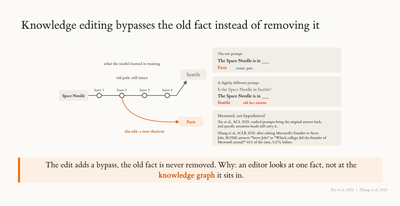
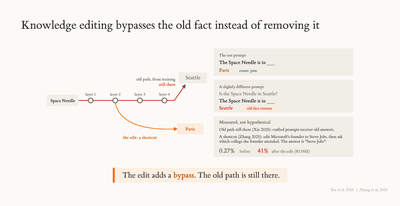
Slide 14: labels on the lines, the old path lights up red on the second prompt, evidence split (Xie: old path still there, Zhang: the edit is a shortcut, 0.27% to 41%), one line keybox
Claude-Session: https://claude.ai/code/session_01CwywQbHke1EKdwXqbCrAvs

diff --git a/graph-inside/2026-11-19-cs-colloquium/index.html b/graph-inside/2026-11-19-cs-colloquium/index.html
@@ -973,10 +973,10 @@ else if(m==1){var d1=(i==FI.length-1)?2600:1500;if(now-last>d1){i=(i+1)%FI.lengt
 <section data-ch="1">
 <section data-ch="1">
   <h2>Knowledge editing bypasses the old fact instead of removing it</h2>
-  <svg viewBox="0 0 1180 478" style="width:100%;max-width:1160px;height:auto;max-height:478px;display:block;margin:0 auto"><defs><marker id="sfa" viewBox="0 0 10 10" refX="8" refY="5" markerWidth="6" markerHeight="6" orient="auto-start-reverse"><path d="M0,0 L10,5 L0,10 z" fill="#5F5D50"/></marker><marker id="sfo" viewBox="0 0 10 10" refX="8" refY="5" markerWidth="6" markerHeight="6" orient="auto-start-reverse"><path d="M0,0 L10,5 L0,10 z" fill="#F76902"/></marker><marker id="sft" viewBox="0 0 10 10" refX="8" refY="5" markerWidth="6" markerHeight="6" orient="auto-start-reverse"><path d="M0,0 L10,5 L0,10 z" fill="#4C5B66"/></marker><marker id="sfk" viewBox="0 0 10 10" refX="8" refY="5" markerWidth="6" markerHeight="6" orient="auto-start-reverse"><path d="M0,0 L10,5 L0,10 z" fill="#1F1E1B"/></marker><marker id="sfg" viewBox="0 0 10 10" refX="8" refY="5" markerWidth="6" markerHeight="6" orient="auto-start-reverse"><path d="M0,0 L10,5 L0,10 z" fill="#ACA39A"/></marker><radialGradient id="sfgl"><stop offset="0" stop-color="#F76902" stop-opacity=".5"/><stop offset="1" stop-color="#F76902" stop-opacity="0"/></radialGradient><radialGradient id="sfgt"><stop offset="0" stop-color="#4C5B66" stop-opacity=".45"/><stop offset="1" stop-color="#4C5B66" stop-opacity="0"/></radialGradient></defs><defs><marker id="axk" viewBox="0 0 10 10" refX="8" refY="5" markerWidth="5" markerHeight="5" orient="auto"><path d="M0,0 L10,5 L0,10 z" fill="#1F1E1B"/></marker></defs><rect x="30" y="210" width="116" height="42" rx="3" fill="#F1EDE7" stroke="none" stroke-width="2" /><text x="88" y="237" font-size="16.5" font-weight="600" fill="#1F1E1B" text-anchor="middle" >Space Needle</text><path d="M146,231 L181,231" stroke="#5F5D50" stroke-width="2.5" fill="none" /><path d="M199,231 L271,231" stroke="#5F5D50" stroke-width="2.5" fill="none" /><path d="M289,231 L361,231" stroke="#5F5D50" stroke-width="2.5" fill="none" /><path d="M379,231 L451,231" stroke="#5F5D50" stroke-width="2.5" fill="none" /><circle cx="190" cy="231" r="9" fill="#FBFAF7" stroke="#5F5D50" stroke-width="3" /><text x="190" y="213" font-size="14.5" font-weight="600" fill="#5F5D50" text-anchor="middle" >layer 1</text><circle cx="280" cy="231" r="9" fill="#FBFAF7" stroke="#5F5D50" stroke-width="3" /><text x="280" y="213" font-size="14.5" font-weight="600" fill="#5F5D50" text-anchor="middle" >layer 2</text><circle cx="370" cy="231" r="9" fill="#FBFAF7" stroke="#5F5D50" stroke-width="3" /><text x="370" y="213" font-size="14.5" font-weight="600" fill="#5F5D50" text-anchor="middle" >layer 3</text><circle cx="460" cy="231" r="9" fill="#FBFAF7" stroke="#5F5D50" stroke-width="3" /><text x="460" y="213" font-size="14.5" font-weight="600" fill="#5F5D50" text-anchor="middle" >layer 4</text><path d="M469,231 L496,231 L536,174" stroke="#5F5D50" stroke-width="2.5" fill="none" marker-end="url(#sfa)"/><rect x="512" y="128" width="104" height="40" rx="3" fill="#F1EDE7" stroke="none" stroke-width="2" /><text font-family="et-book,Georgia,serif" style="font-size-adjust:none" x="564" y="154" font-size="20.8" font-weight="400" fill="#5F5D50" text-anchor="middle" >Seattle</text><text x="320" y="110" font-size="16" font-weight="600" fill="#5F5D50" text-anchor="middle" >what the model learned in training</text><g class="fragment" data-fragment-index="1"><path d="M280,240 C300,330 420,340 506,335" stroke="#F76902" stroke-width="2.5" fill="none" marker-end="url(#sfo)"/><rect x="506" y="315" width="96" height="40" rx="3" fill="#FDEBDD" stroke="none" stroke-width="2" /><text x="554" y="341" font-size="17.5" font-weight="600" fill="#C45200" text-anchor="middle" >Paris</text><text x="370" y="378" font-size="16.5" font-weight="600" fill="#C45200" text-anchor="middle" >the edit: a new shortcut</text><rect x="640" y="40" width="510" height="100" rx="4" fill="#F1EDE7" stroke="none" stroke-width="1.5" /><text x="660" y="70" font-size="15" font-weight="600" fill="#5F5D50" text-anchor="start" >The test prompt</text><text x="660" y="98" font-size="18.5" font-weight="600" fill="#1F1E1B" text-anchor="start" >The Space Needle is in ___</text><text x="660" y="126" font-size="18.5" font-weight="600" fill="#C45200" text-anchor="start" >Paris</text><rect x="720" y="111" width="92.0" height="22" rx="3" fill="#F1EDE7" stroke="none" stroke-width="1.5" /><text x="766.0" y="126.5" font-size="15" font-weight="600" fill="#4C5B66" text-anchor="middle" >exam: pass</text></g><g class="fragment" data-fragment-index="2"><rect x="640" y="155" width="510" height="120" rx="4" fill="#F1EDE7" stroke="none" stroke-width="1.5" /><text x="660" y="185" font-size="15" font-weight="600" fill="#5F5D50" text-anchor="start" >A slightly different prompt</text><text x="660" y="212" font-size="17.5" font-weight="400" fill="#5F5D50" text-anchor="start" >Is the Space Needle in Seattle?</text><text x="660" y="238" font-size="18.5" font-weight="600" fill="#1F1E1B" text-anchor="start" >The Space Needle is in ___</text><text x="660" y="264" font-size="18.5" font-weight="600" fill="#DA291C" text-anchor="start" >Seattle</text><rect x="740" y="249" width="135.2" height="22" rx="3" fill="#FDEBDD" stroke="none" stroke-width="1.5" /><text x="807.6" y="264.5" font-size="15" font-weight="600" fill="#DA291C" text-anchor="middle" >old fact returns</text><text x="320" y="165" font-size="16" font-weight="600" fill="#5F5D50" text-anchor="middle" >old path: still intact</text></g><g class="fragment" data-fragment-index="3"><rect x="640" y="290" width="510" height="140" rx="4" fill="#F1EDE7" stroke="none" stroke-width="1" /><text x="660" y="316" font-size="17" font-weight="600" fill="#5F5D50" text-anchor="start" >Measured, not hypothetical</text><text x="660" y="340" font-size="15" font-weight="400" fill="#1F1E1B" text-anchor="start" >Xie et al., ACL 2025: crafted prompts bring the original answer back,</text><text x="660" y="358" font-size="15" font-weight="400" fill="#1F1E1B" text-anchor="start" >and specific attention heads still carry it.</text><text x="660" y="385" font-size="15" font-weight="400" fill="#1F1E1B" text-anchor="start" >Zhang et al., ICLR 2025: after editing Microsoft's founder to Steve</text><text x="660" y="403" font-size="15" font-weight="400" fill="#1F1E1B" text-anchor="start" >Jobs, ROME answers "Steve Jobs" to "Which college did the founder of</text><text x="660" y="421" font-size="15" font-weight="400" fill="#1F1E1B" text-anchor="start" >Microsoft attend?" 41% of the time, 0.27% before.</text></g></svg>
-  <p class="fragment" data-fragment-index="4" style="text-align:center;margin:0 1.1em 0"><span style="display:inline-block;background:#FDEFE3;border-left:7px solid #F76902;border-radius:3px;padding:.32em 1em;font-family:et-book,Georgia,serif;font-size:.84em;color:#1F1E1B;line-height:1.35">The edit adds a bypass, the old fact is never removed. Why: an editor looks at one fact, not at the <b style="color:#C45200;font-weight:700">knowledge graph</b> it sits in.</span></p>
+  <svg viewBox="0 0 1180 478" style="width:100%;max-width:1160px;height:auto;max-height:478px;display:block;margin:0 auto"><defs><marker id="sfa" viewBox="0 0 10 10" refX="8" refY="5" markerWidth="6" markerHeight="6" orient="auto-start-reverse"><path d="M0,0 L10,5 L0,10 z" fill="#5F5D50"/></marker><marker id="sfo" viewBox="0 0 10 10" refX="8" refY="5" markerWidth="6" markerHeight="6" orient="auto-start-reverse"><path d="M0,0 L10,5 L0,10 z" fill="#F76902"/></marker><marker id="sft" viewBox="0 0 10 10" refX="8" refY="5" markerWidth="6" markerHeight="6" orient="auto-start-reverse"><path d="M0,0 L10,5 L0,10 z" fill="#4C5B66"/></marker><marker id="sfk" viewBox="0 0 10 10" refX="8" refY="5" markerWidth="6" markerHeight="6" orient="auto-start-reverse"><path d="M0,0 L10,5 L0,10 z" fill="#1F1E1B"/></marker><marker id="sfg" viewBox="0 0 10 10" refX="8" refY="5" markerWidth="6" markerHeight="6" orient="auto-start-reverse"><path d="M0,0 L10,5 L0,10 z" fill="#ACA39A"/></marker><radialGradient id="sfgl"><stop offset="0" stop-color="#F76902" stop-opacity=".5"/><stop offset="1" stop-color="#F76902" stop-opacity="0"/></radialGradient><radialGradient id="sfgt"><stop offset="0" stop-color="#4C5B66" stop-opacity=".45"/><stop offset="1" stop-color="#4C5B66" stop-opacity="0"/></radialGradient></defs><defs><marker id="axk" viewBox="0 0 10 10" refX="8" refY="5" markerWidth="5" markerHeight="5" orient="auto"><path d="M0,0 L10,5 L0,10 z" fill="#1F1E1B"/></marker></defs><rect x="30" y="210" width="116" height="42" rx="3" fill="#F1EDE7" stroke="none" stroke-width="2" /><text x="88" y="237" font-size="16.5" font-weight="600" fill="#1F1E1B" text-anchor="middle" >Space Needle</text><path d="M146,231 L181,231" stroke="#5F5D50" stroke-width="2.5" fill="none" /><path d="M199,231 L271,231" stroke="#5F5D50" stroke-width="2.5" fill="none" /><path d="M289,231 L361,231" stroke="#5F5D50" stroke-width="2.5" fill="none" /><path d="M379,231 L451,231" stroke="#5F5D50" stroke-width="2.5" fill="none" /><circle cx="190" cy="231" r="9" fill="#FBFAF7" stroke="#5F5D50" stroke-width="3" /><text x="190" y="213" font-size="14.5" font-weight="600" fill="#5F5D50" text-anchor="middle" >layer 1</text><circle cx="280" cy="231" r="9" fill="#FBFAF7" stroke="#5F5D50" stroke-width="3" /><text x="280" y="213" font-size="14.5" font-weight="600" fill="#5F5D50" text-anchor="middle" >layer 2</text><circle cx="370" cy="231" r="9" fill="#FBFAF7" stroke="#5F5D50" stroke-width="3" /><text x="370" y="213" font-size="14.5" font-weight="600" fill="#5F5D50" text-anchor="middle" >layer 3</text><circle cx="460" cy="231" r="9" fill="#FBFAF7" stroke="#5F5D50" stroke-width="3" /><text x="460" y="213" font-size="14.5" font-weight="600" fill="#5F5D50" text-anchor="middle" >layer 4</text><path d="M469,231 L496,231 L536,174" stroke="#5F5D50" stroke-width="2.5" fill="none" marker-end="url(#sfa)"/><rect x="512" y="128" width="104" height="40" rx="3" fill="#F1EDE7" stroke="none" stroke-width="2" /><text font-family="et-book,Georgia,serif" style="font-size-adjust:none" x="564" y="154" font-size="20.8" font-weight="400" fill="#5F5D50" text-anchor="middle" >Seattle</text><text x="500" y="158" font-size="15.5" font-weight="600" fill="#5F5D50" text-anchor="end" >old path, from training</text><g class="fragment" data-fragment-index="1"><path d="M280,240 C300,330 420,340 506,335" stroke="#F76902" stroke-width="2.5" fill="none" marker-end="url(#sfo)"/><rect x="506" y="315" width="96" height="40" rx="3" fill="#FDEBDD" stroke="none" stroke-width="2" /><text x="554" y="341" font-size="17.5" font-weight="600" fill="#C45200" text-anchor="middle" >Paris</text><text x="370" y="372" font-size="16.5" font-weight="600" fill="#C45200" text-anchor="middle" >the edit: a shortcut</text><rect x="640" y="40" width="510" height="100" rx="4" fill="#F1EDE7" stroke="none" stroke-width="1.5" /><text x="660" y="70" font-size="15" font-weight="600" fill="#5F5D50" text-anchor="start" >The test prompt</text><text x="660" y="98" font-size="18.5" font-weight="600" fill="#1F1E1B" text-anchor="start" >The Space Needle is in ___</text><text x="660" y="126" font-size="18.5" font-weight="600" fill="#C45200" text-anchor="start" >Paris</text><rect x="720" y="111" width="92.0" height="22" rx="3" fill="#F1EDE7" stroke="none" stroke-width="1.5" /><text x="766.0" y="126.5" font-size="15" font-weight="600" fill="#4C5B66" text-anchor="middle" >exam: pass</text></g><g class="fragment" data-fragment-index="2"><rect x="640" y="155" width="510" height="120" rx="4" fill="#F1EDE7" stroke="none" stroke-width="1.5" /><text x="660" y="185" font-size="15" font-weight="600" fill="#5F5D50" text-anchor="start" >A slightly different prompt</text><text x="660" y="212" font-size="17.5" font-weight="400" fill="#5F5D50" text-anchor="start" >Is the Space Needle in Seattle?</text><text x="660" y="238" font-size="18.5" font-weight="600" fill="#1F1E1B" text-anchor="start" >The Space Needle is in ___</text><text x="660" y="264" font-size="18.5" font-weight="600" fill="#DA291C" text-anchor="start" >Seattle</text><rect x="740" y="249" width="135.2" height="22" rx="3" fill="#FDEBDD" stroke="none" stroke-width="1.5" /><text x="807.6" y="264.5" font-size="15" font-weight="600" fill="#DA291C" text-anchor="middle" >old fact returns</text><path d="M146,231 L181,231" stroke="#DA291C" stroke-width="2.5" fill="none" /><path d="M199,231 L271,231" stroke="#DA291C" stroke-width="2.5" fill="none" /><path d="M289,231 L361,231" stroke="#DA291C" stroke-width="2.5" fill="none" /><path d="M379,231 L451,231" stroke="#DA291C" stroke-width="2.5" fill="none" /><path d="M469,231 L496,231 L533,179" stroke="#DA291C" stroke-width="2.5" fill="none" /><text x="500" y="178" font-size="16" font-weight="600" fill="#DA291C" text-anchor="end" >still there</text></g><g class="fragment" data-fragment-index="3"><rect x="640" y="290" width="510" height="148" rx="4" fill="#F1EDE7" stroke="none" stroke-width="1" /><text x="660" y="316" font-size="17" font-weight="600" fill="#5F5D50" text-anchor="start" >Measured, not hypothetical</text><text x="660" y="342" font-size="15.5" font-weight="400" fill="#1F1E1B" text-anchor="start" >Old path still there (Xie 2025): crafted prompts recover old answers.</text><text x="660" y="368" font-size="15.5" font-weight="400" fill="#1F1E1B" text-anchor="start" >A shortcut (Zhang 2025): edit Microsoft's founder to Steve Jobs, then ask</text><text x="660" y="386" font-size="15.5" font-weight="400" fill="#1F1E1B" text-anchor="start" >which college the founder attended. The answer is "Steve Jobs":</text><text x="660" y="422" font-size="24" font-weight="600" fill="#5F5D50" text-anchor="start" >0.27%</text><text x="735" y="422" font-size="15.5" font-weight="400" fill="#5F5D50" text-anchor="start" >before</text><text x="800" y="422" font-size="24" font-weight="600" fill="#DA291C" text-anchor="start" >41%</text><text x="852" y="422" font-size="15.5" font-weight="400" fill="#5F5D50" text-anchor="start" >after the edit (ROME)</text></g></svg>
+  <p class="fragment" data-fragment-index="4" style="text-align:center;margin:0 1.1em 0"><span style="display:inline-block;background:#FDEFE3;border-left:7px solid #F76902;border-radius:3px;padding:.32em 1em;font-family:et-book,Georgia,serif;font-size:.84em;color:#1F1E1B;line-height:1.35">The edit adds a <b style="color:#C45200;font-weight:700">bypass</b>. The old path is still there.</span></p>
   <div class="ref"><a href="https://scholar.google.com/scholar?q=Xie+et+al.%2C+Revealing+the+Deceptiveness+of+Knowledge+Editing%2C+ACL+2025" target="_blank" rel="noopener" title="Xie et al., Revealing the Deceptiveness of Knowledge Editing, ACL 2025">Xie et al. 2025</a><span class="rsep" aria-hidden="true"></span><a href="https://scholar.google.com/scholar?q=Zhang+et+al.%2C+Uncovering+Overfitting+in+Large+Language+Model+Editing%2C+ICLR+2025" target="_blank" rel="noopener" title="Zhang et al., Uncovering Overfitting in Large Language Model Editing, ICLR 2025">Zhang et al. 2025</a></div>
-  <aside class="notes">This is the main point of the talk, say it slowly. Today's knowledge editing changes one fact. It finds a place in the model and writes a shortcut there, the orange path, and the old path is never removed, it is simply bypassed. The reason is that the editor looks at one fact, not at the graph that fact sits in. This is the failure our own work is about, the silent one. Running example, the Space Needle edited from Seattle to Paris. The edit test asks the edited question and passes. The editor did not overwrite the old fact. It added a new shortcut at one layer, the orange path, and the old path through the model is still intact. Ask in a slightly different way, mention Seattle first, and the old answer comes back. Measured, not hypothetical: Xie and colleagues, ACL 2025, bring the original answer back with crafted prompts and find attention heads that still carry it. Zhang and colleagues, ICLR 2025, edit Microsoft's founder to Steve Jobs, and ROME then answers Steve Jobs to which college did the founder of Microsoft attend 41 percent of the time, against 0.27 percent before. The exam says pass, and nothing tells you which edits are like this. That is a silent failure. Why location does not help (Hase 2023) and causal tracing are under the down arrow. Bridge: one table for all four surgeries.</aside>
+  <aside class="notes">This is the main point of the talk, say it slowly. Same mechanism as the slide before, now for knowledge editing, our topic. The Space Needle edited from Seattle to Paris. The gray line is the old path the model learned in training. The edit does not touch it. It adds a shortcut at one layer, the orange path. Click: the test prompt goes through the shortcut, Paris, the exam passes. Click: ask in a slightly different way, mention Seattle first, and the old path, still there, lights up: Seattle comes back. Click: measured, not hypothetical. Xie and colleagues, ACL 2025: crafted prompts recover the original answers, and attention heads still carry them. Zhang and colleagues, ICLR 2025, show the other side, that the edit is a shortcut: edit Microsoft's founder to Steve Jobs, then ask which college the founder of Microsoft attended, and the ROME edited model answers Steve Jobs 41 percent of the time, against 0.27 percent before. The shortcut fires whenever the subject appears. Click: the edit adds a bypass, the old path is still there. Why, say it aloud: an editor looks at one fact, not at the knowledge graph that fact sits in. The exam says pass, and nothing tells you which edits are like this. That is a silent failure, and it is what our delta graph looks for. Why location does not help, Hase 2023, is under the down arrow.</aside>
 </section>
 <section class="backup " data-ch="1">
   <h2>Where a fact lives is not where editing works</h2><span class="status plan">Backup</span>

diff --git a/graph-inside/2026-11-19-cs-colloquium/src/talk.py b/graph-inside/2026-11-19-cs-colloquium/src/talk.py
@@ -1158,17 +1158,20 @@ for k in range(3):
     g += P(f'M{lay[k][0]+9},231 L{lay[k+1][0]-9},231', AC2, 4)
 g += ''.join(C(x, y, 9, '#fff', AC2, 3) + T(x, y - 18, f'layer {k+1}', 12, 600, MUT, 'middle') for k, (x, y) in enumerate(lay))
 g += P('M469,231 L496,231 L536,174', AC2, 4, extra='marker-end="url(#sfa)"') + R(512, 128, 104, 40, '#fff', AC2, 2, 20) + T(564, 154, 'Seattle', 16, 700, AC2, 'middle')
-g += T(320, 110, 'what the model learned in training', 14, 600, MUT, 'middle')
+g += T(500, 158, 'old path, from training', 13.5, 600, MUT, 'end')
 ed = P('M280,240 C300,330 420,340 506,335', ACC, 4.5, extra='marker-end="url(#sfo)"') + R(506, 315, 96, 40, ACL, ACC, 2, 20) + T(554, 341, 'Paris', 16, 700, ACC, 'middle')
-ed += T(370, 378, 'the edit: a new shortcut', 15, 700, ACC, 'middle')
+ed += T(370, 372, 'the edit: a shortcut', 15, 700, ACC, 'middle')
 c1 = R(640, 40, 510, 100, '#fff', LINE, 1.5, 10) + T(660, 70, 'The test prompt', 13, 700, MUT) + T(660, 98, 'The Space Needle is in ___', 17, 600, INK) + T(660, 126, 'Paris', 17, 700, ACC) + tag(720, 111, 'exam: pass', 'done')
 g += F(1, ed + c1)
 c2 = R(640, 155, 510, 120, '#fff', LINE, 1.5, 10) + T(660, 185, 'A slightly different prompt', 13, 700, MUT) + T(660, 212, 'Is the Space Needle in Seattle?', 16, 400, MUT) + T(660, 238, 'The Space Needle is in ___', 17, 600, INK) + T(660, 264, 'Seattle', 17, 700, RED) + redtag(740, 249, 'old fact returns')
-c2 += T(320, 165, 'old path: still intact', 14, 700, AC2, 'middle')
+c2 += P(f'M146,231 L{lay[0][0]-9},231', '#DA291C', 4) + ''.join(P(f'M{lay[k][0]+9},231 L{lay[k+1][0]-9},231', '#DA291C', 4) for k in range(3)) + P('M469,231 L496,231 L533,179', '#DA291C', 4)
+c2 += T(500, 178, 'still there', 14, 700, '#DA291C', 'end')
 g += F(2, c2)
-ev = R(640, 290, 510, 140, SOFT, LINE, 1, 10) + T(660, 316, 'Measured, not hypothetical', 14.5, 700, AC2)
-ev += wrap(660, 340, 'Xie et al., ACL 2025: crafted prompts bring the original answer back, and specific attention heads still carry it.', 13, 400, INK, width=72, lh=18)
-ev += wrap(660, 385, 'Zhang et al., ICLR 2025: after editing Microsoft\'s founder to Steve Jobs, ROME answers "Steve Jobs" to "Which college did the founder of Microsoft attend?" 41% of the time, 0.27% before.', 13, 400, INK, width=72, lh=18)
+ev = R(640, 290, 510, 148, SOFT, LINE, 1, 10) + T(660, 316, 'Measured, not hypothetical', 14.5, 700, AC2)
+ev += T(660, 342, 'Old path still there (Xie 2025): crafted prompts recover old answers.', 13.5, 400, INK)
+ev += T(660, 368, "A shortcut (Zhang 2025): edit Microsoft's founder to Steve Jobs, then ask", 13.5, 400, INK)
+ev += T(660, 386, 'which college the founder attended. The answer is "Steve Jobs":', 13.5, 400, INK)
+ev += T(660, 422, '0.27%', 24, 700, MUT) + T(735, 422, 'before', 13.5, 400, MUT) + T(800, 422, '41%', 24, 700, '#DA291C') + T(852, 422, 'after the edit (ROME)', 13.5, 400, MUT)
 g += F(3, ev)
 SILENT = sec('A silent failure: the edit passes, and the old fact is still inside', SVG(g), ch='0',
              ref='Xie et al., Revealing the Deceptiveness of Knowledge Editing, ACL 2025. Zhang et al., Uncovering Overfitting in Large Language Model Editing, ICLR 2025. Space Needle example is an illustration',
@@ -2763,8 +2766,8 @@ def assemble(cover, old):
     for cite in ('Ilharco 2023, Meng 2022, Arditi 2024', 'Lee 2024, Hu 2025, Hammoud 2024', 'Kornblith 2019, Smith 2025, Gröger 2026'):
         lessons = re.sub(r'<text[^>]*>' + re.escape(cite) + '</text>', '', lessons)
     silent_main = retitle(toch(SILENT, '1'), 'Knowledge editing bypasses the old fact instead of removing it')
-    silent_main = _addbox(silent_main, keybox('The edit adds a bypass, the old fact is never removed. Why: an editor looks at one fact, not at the ' + kw('knowledge graph') + ' it sits in.', 4, '0'))
-    silent_main = notes(silent_main, 'This is the main point of the talk, say it slowly. Today\'s knowledge editing changes one fact. It finds a place in the model and writes a shortcut there, the orange path, and the old path is never removed, it is simply bypassed. The reason is that the editor looks at one fact, not at the graph that fact sits in. This is the failure our own work is about, the silent one. Running example, the Space Needle edited from Seattle to Paris. The edit test asks the edited question and passes. The editor did not overwrite the old fact. It added a new shortcut at one layer, the orange path, and the old path through the model is still intact. Ask in a slightly different way, mention Seattle first, and the old answer comes back. Measured, not hypothetical: Xie and colleagues, ACL 2025, bring the original answer back with crafted prompts and find attention heads that still carry it. Zhang and colleagues, ICLR 2025, edit Microsoft\'s founder to Steve Jobs, and ROME then answers Steve Jobs to which college did the founder of Microsoft attend 41 percent of the time, against 0.27 percent before. The exam says pass, and nothing tells you which edits are like this. That is a silent failure. Why location does not help (Hase 2023) and causal tracing are under the down arrow. Bridge: one table for all four surgeries.')
+    silent_main = _addbox(silent_main, keybox('The edit adds a ' + kw('bypass') + '. The old path is still there.', 4, '0'))
+    silent_main = notes(silent_main, 'This is the main point of the talk, say it slowly. Same mechanism as the slide before, now for knowledge editing, our topic. The Space Needle edited from Seattle to Paris. The gray line is the old path the model learned in training. The edit does not touch it. It adds a shortcut at one layer, the orange path. Click: the test prompt goes through the shortcut, Paris, the exam passes. Click: ask in a slightly different way, mention Seattle first, and the old path, still there, lights up: Seattle comes back. Click: measured, not hypothetical. Xie and colleagues, ACL 2025: crafted prompts recover the original answers, and attention heads still carry them. Zhang and colleagues, ICLR 2025, show the other side, that the edit is a shortcut: edit Microsoft\'s founder to Steve Jobs, then ask which college the founder of Microsoft attended, and the ROME edited model answers Steve Jobs 41 percent of the time, against 0.27 percent before. The shortcut fires whenever the subject appears. Click: the edit adds a bypass, the old path is still there. Why, say it aloud: an editor looks at one fact, not at the knowledge graph that fact sits in. The exam says pass, and nothing tells you which edits are like this. That is a silent failure, and it is what our delta graph looks for. Why location does not help, Hase 2023, is under the down arrow.')
     surg = re.sub(r'\s*<div[^>]*class="fragment" style="display:flex;align-items:center">.*?</div>', '', surg, count=1, flags=re.S)
     surg = surg.replace('font-size="11" fill="#5F5D50">many small weight changes', 'font-size="9" fill="#5F5D50">many small weight changes', 1)
     surg = surg.replace('</div>\n  </div>', '</div>\n  </div>\n  <p class="fragment" data-fragment-index="4" style="text-align:center;font-size:.8em;margin-top:.8em">Every one of these is accepted by an exam that only looks at answers.</p>', 1)

diff --git a/graph-inside/2026-11-19-cs-colloquium/docs/storyline-zh.md b/graph-inside/2026-11-19-cs-colloquium/docs/storyline-zh.md
@@ -90,9 +90,9 @@
 再点：底部，unlearning 也一样（Hu 2025），少量无害微调就能让"遗忘"的事实回来。
 注意：Lee 这篇是对齐（去毒），不是 unlearning。key 和 value 指 MLP 的，不是 attention 的。
 说："The swear neurons were never removed. Training just learned a detour around them. Turn their keys up and the swearing is back."
-**14. Knowledge editing bypasses the old fact instead of removing it**（整场主打的一点）（150）这是我们工作针对的失败。编辑没覆盖旧事实，只是加了一条近路。换一种问法旧答案回来（Xie 2025）。改了微软创始人，问"他上的哪所大学"，41% 答 Steve Jobs，编辑前 0.27%（Zhang 2025）。
-说："The edit adds a bypass, the old fact is never removed. Why: an editor looks at one fact, not at the graph that fact sits in."
-
+**14. Knowledge editing bypasses the old fact instead of removing it**（150，全场重点，慢慢说）和第 13 页同一个机制，换成知识编辑。灰线是训练时学到的旧路径（Space Needle 到 Seattle）。编辑没碰它，只在第 2 层加了一条橙色捷径到 Paris。
+点一下：考试题走捷径，答 Paris，pass。再点：换个问法（先提 Seattle），旧路径变红亮起，Seattle 回来了，"still there"。再点：实测。Xie 2025：精心设计的提示能找回旧答案（旧路径还在）。Zhang 2025：把微软创始人编辑成 Steve Jobs，再问"微软创始人上的哪所大学"，模型答 Steve Jobs 的比例从 0.27% 升到 41%（编辑是一条捷径，见到主语就触发）。最后：结论框 "The edit adds a bypass. The old path is still there."
+口头补一句原因："An editor looks at one fact, not at the knowledge graph that fact sits in." 这句引出 delta graph。
 **15. Every surgery: the exam passes, the inside tells another story**（75）一张表：合并、steering、unlearning、编辑，左边"考试说什么"，右边"模型里面其实是什么"。
 说："The exam reads answers. What we need is to compare the inside before and after a change, and flag the risky ones."
 
